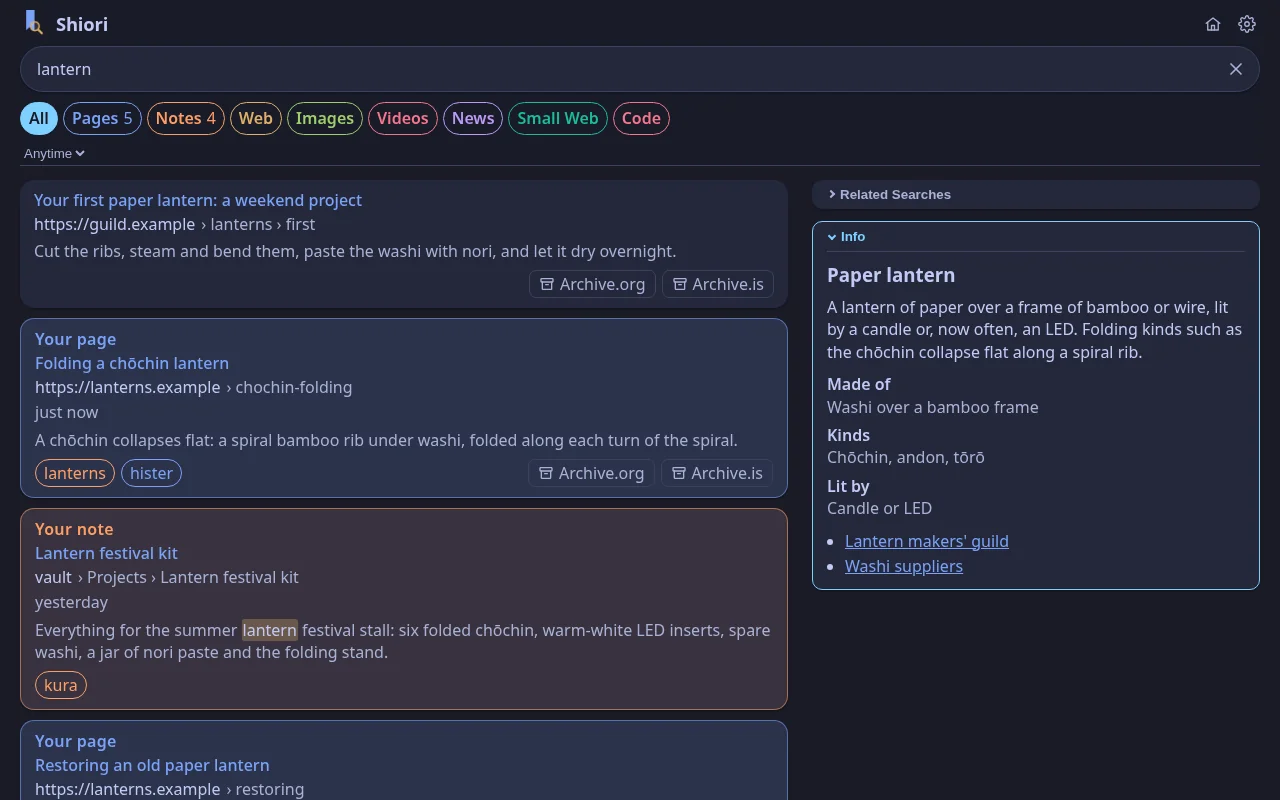
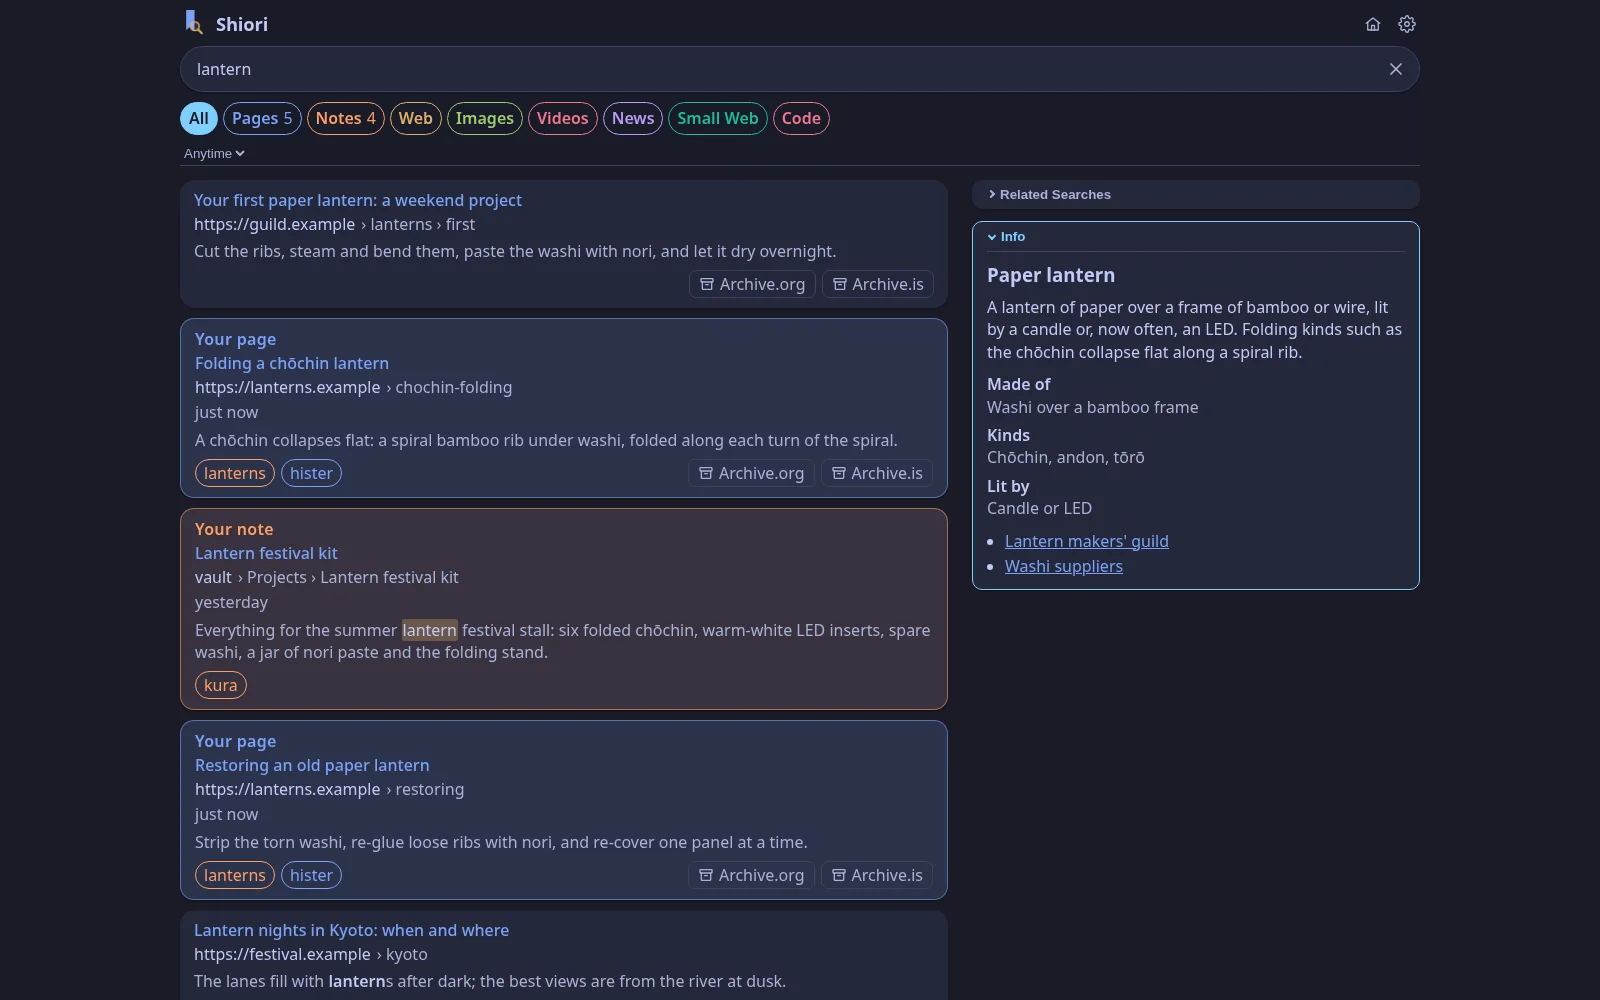
machiya: site: the search shot is Shiori's All tab at 1600x1000, and on a phone Shiori's own phone view, so its text reads at true size (the owner)

diff --git a/site/index.html b/site/index.html
@@ -66,10 +66,12 @@
       </div>
       <figure class="feature-shot">
         <picture class="only-light">
-          <img src="img/search-light.webp" width="1280" height="800" loading="lazy" decoding="async" alt="Shiori on the All tab for the search lantern: web results with your saved pages and your Lantern festival kit note from Kura woven in, each tinted, beside an Info box about paper lanterns.">
+          <source media="(max-width: 600px)" srcset="img/search-phone-light.webp" width="780" height="1688">
+          <img src="img/search-light.webp" width="1600" height="1000" loading="lazy" decoding="async" alt="Shiori on the All tab for the search lantern: web results with your saved pages and your Lantern festival kit note from Kura woven in, each tinted, beside an Info box about paper lanterns.">
         </picture>
         <picture class="only-dark">
-          <img src="img/search-dark.webp" width="1280" height="800" loading="lazy" decoding="async" alt="Shiori on the All tab for the search lantern: web results with your saved pages and your Lantern festival kit note from Kura woven in, each tinted, beside an Info box about paper lanterns.">
+          <source media="(max-width: 600px)" srcset="img/search-phone-dark.webp" width="780" height="1688">
+          <img src="img/search-dark.webp" width="1600" height="1000" loading="lazy" decoding="async" alt="Shiori on the All tab for the search lantern: web results with your saved pages and your Lantern festival kit note from Kura woven in, each tinted, beside an Info box about paper lanterns.">
         </picture>
       </figure>
     </div>
